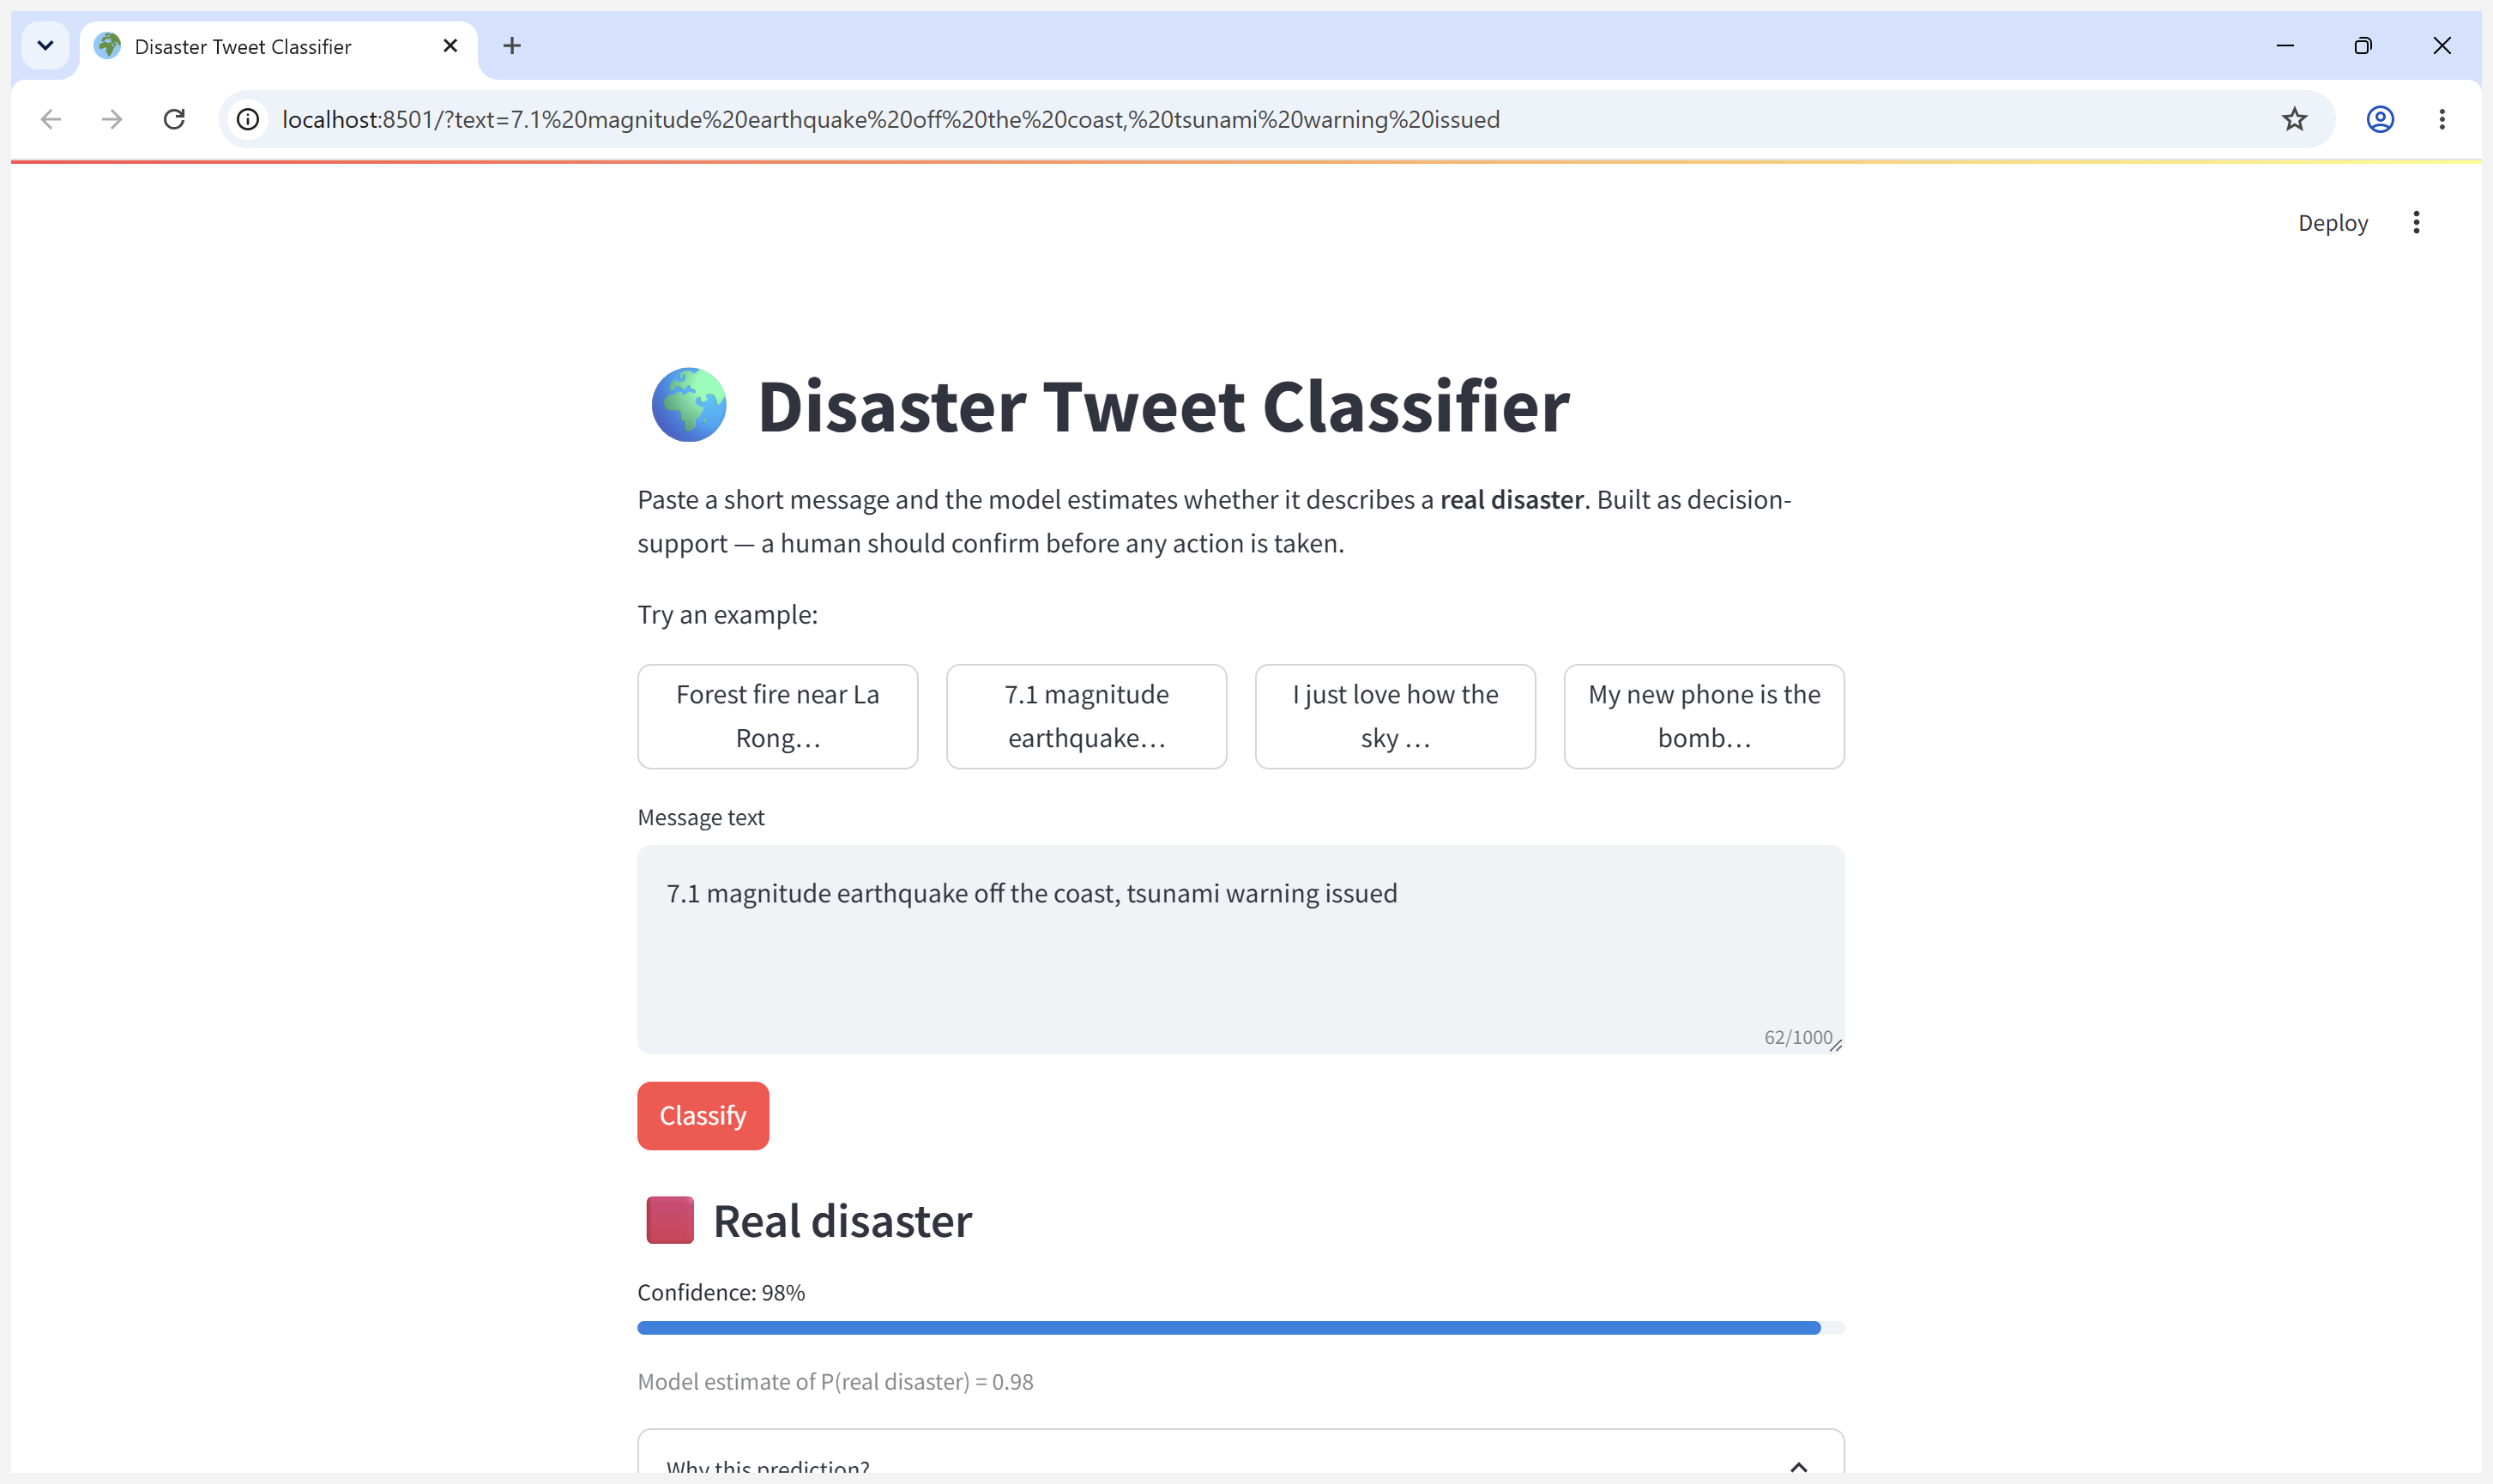
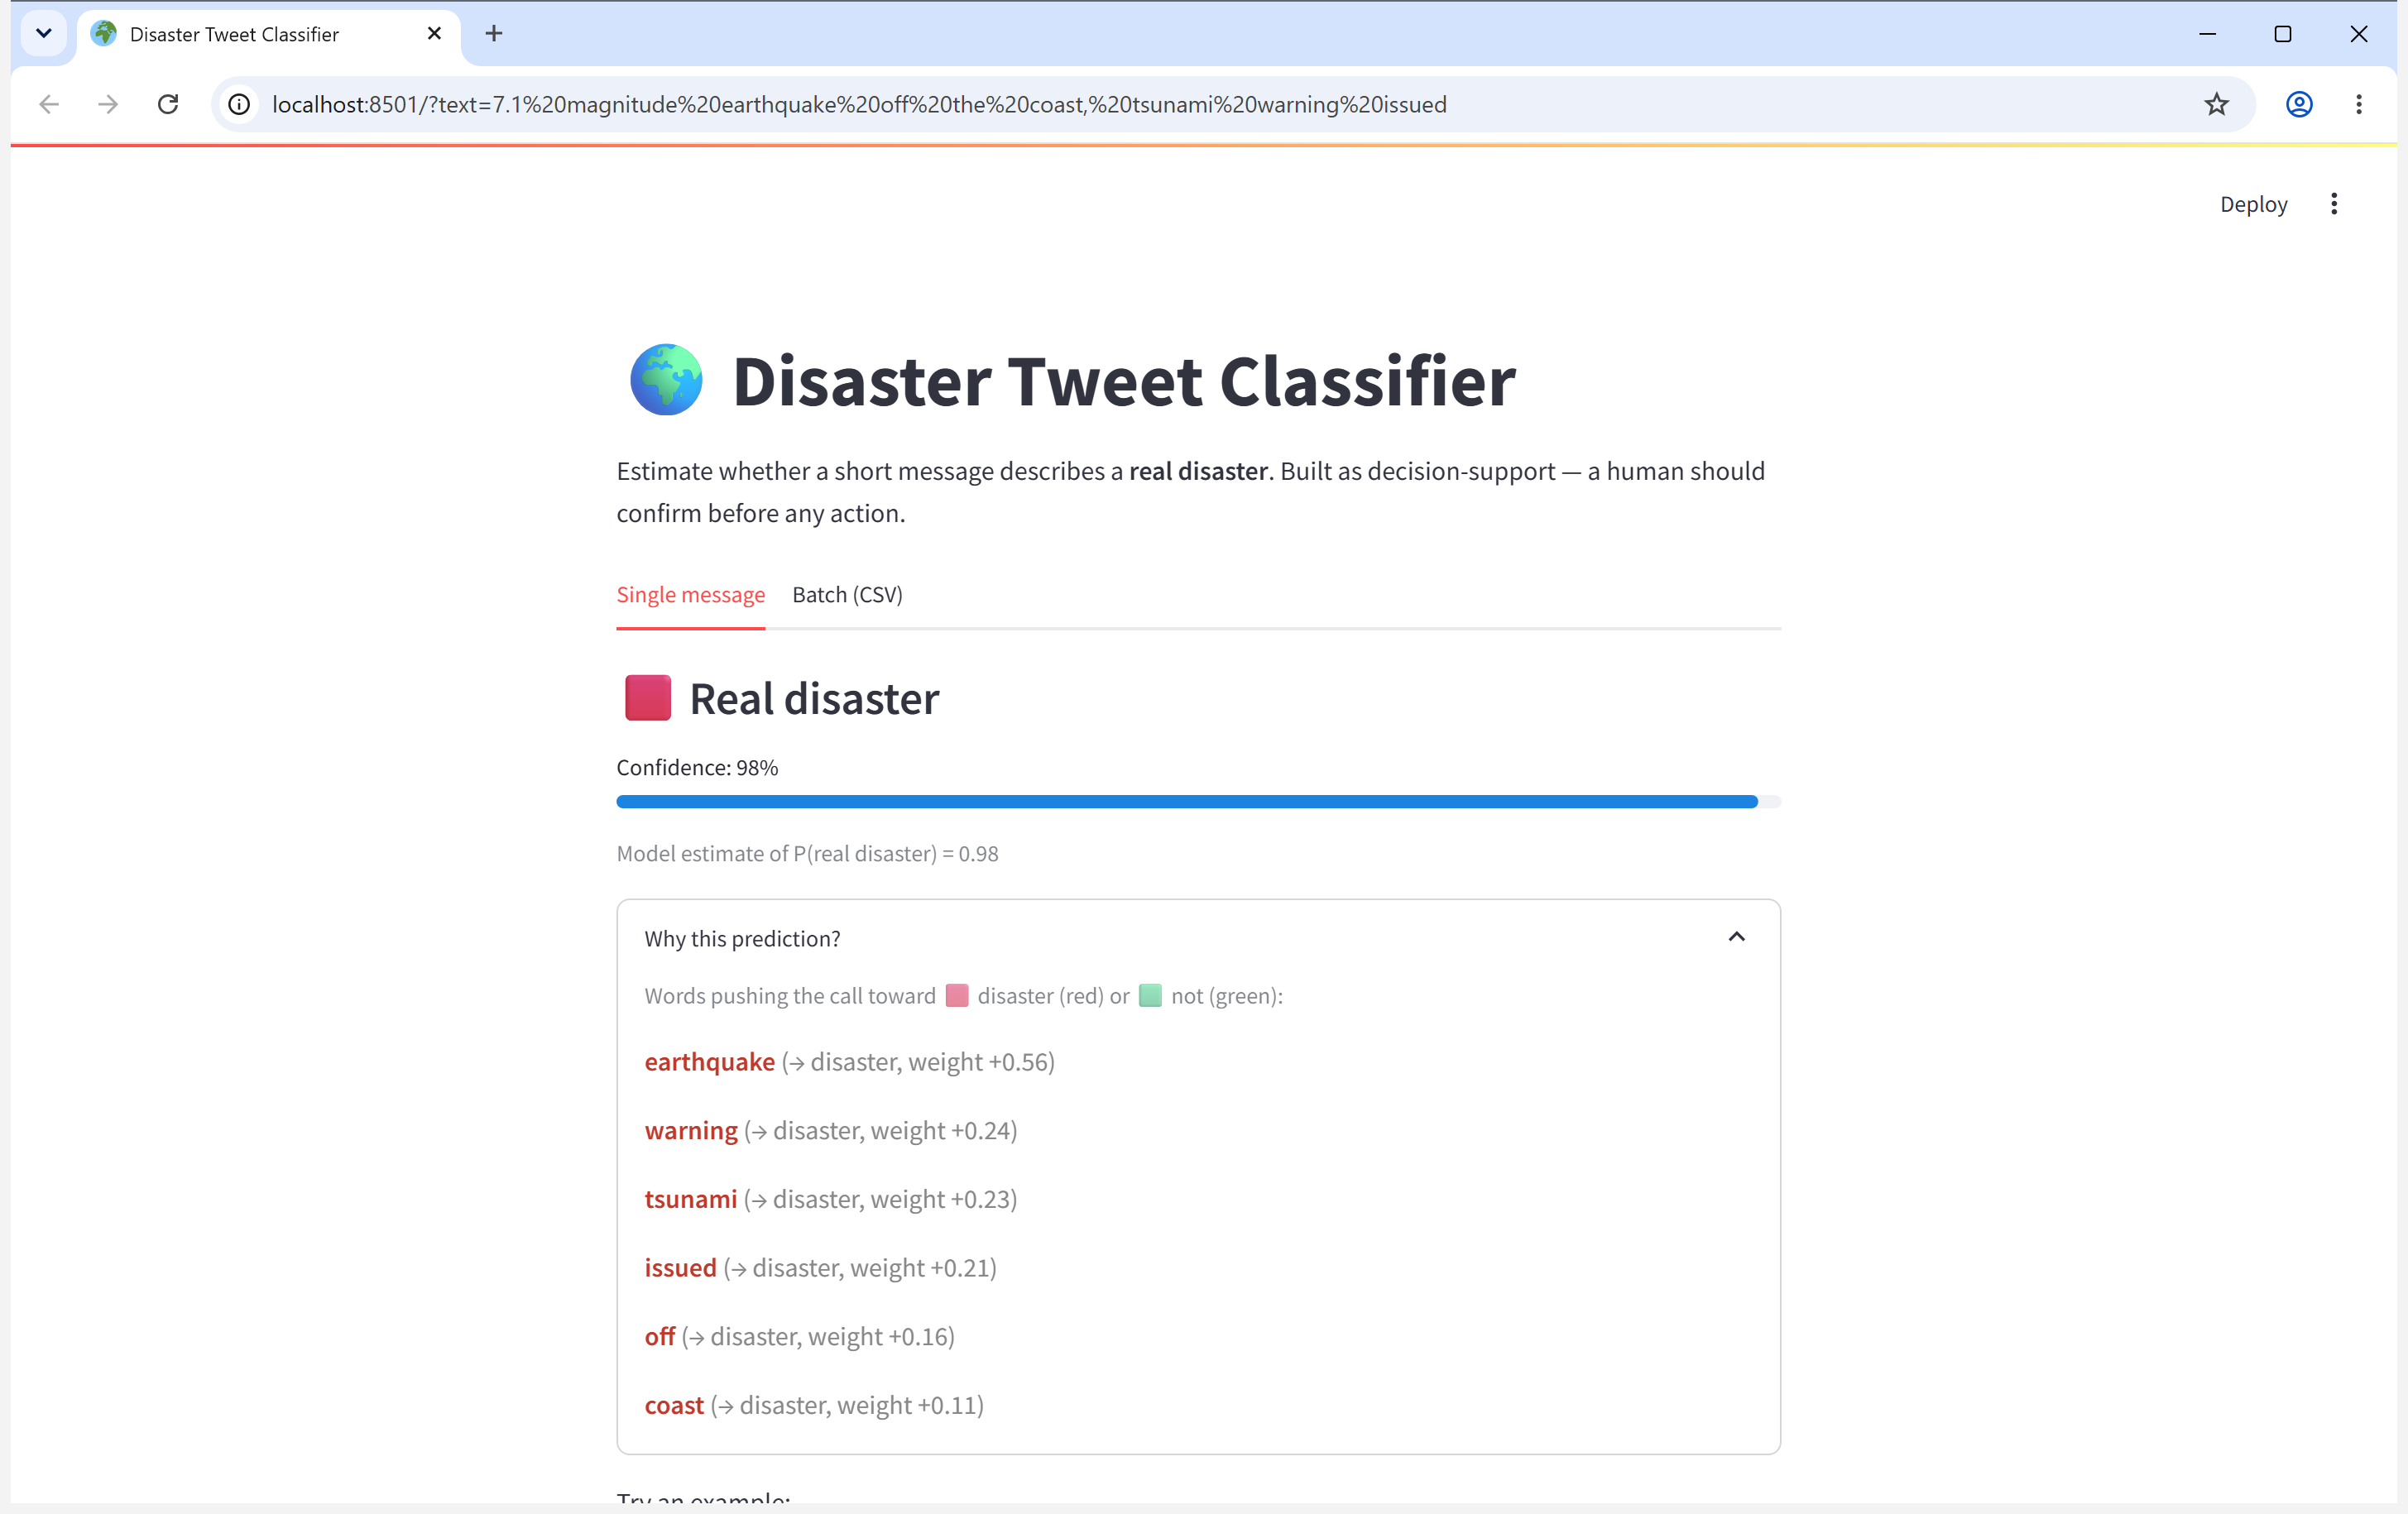
Add tests, batch CSV tab + model card, result-first UI, fix README

diff --git a/app.py b/app.py
@@ -1,17 +1,22 @@
 """Local Streamlit UI for the disaster-tweet classifier.
 
 Run with:  streamlit run app.py
-Opens on http://localhost:8501 and lets a non-technical user paste a tweet and
-get a label, a calibrated confidence, and a plain explanation of *why*.
+Opens on http://localhost:8501. A non-technical user can classify a single
+message (with an explanation of *why*) or upload a CSV for batch scoring.
 """
 
 from __future__ import annotations
 
+import json
+import os
+
+import pandas as pd
 import streamlit as st
 
 from src.model import DisasterModel, Prediction
 
 MODEL_PATH = "model.joblib"
+METRICS_PATH = "metrics.json"
 MAX_CHARS = 1000
 EXAMPLES = [
     "Forest fire near La Ronge Sask. Canada",
@@ -25,6 +30,15 @@ EXAMPLES = [
 def get_model() -> DisasterModel:
     """Load the model once per server process."""
     return DisasterModel.load(MODEL_PATH)
+
+
[email redacted]_data
+def get_metrics() -> dict:
+    """Load validation metrics for the model card, if present."""
+    if os.path.exists(METRICS_PATH):
+        with open(METRICS_PATH, encoding="utf-8") as fh:
+            return json.load(fh)
+    return {}
 
 
 def _set_example(text: str) -> None:
@@ -44,7 +58,7 @@ def render_result(pred: Prediction) -> None:
 
     with st.expander("Why this prediction?", expanded=True):
         if not pred.drivers:
-            st.write("No strong word-level signals — the model is near its decision boundary.")
+            st.write("No strong word-level signals — the model is near its boundary.")
             return
         st.caption("Words pushing the call toward 🟥 disaster (red) or 🟩 not (green):")
         for word, weight in pred.drivers:
@@ -57,14 +71,73 @@ def render_result(pred: Prediction) -> None:
             )
 
 
+def single_tab(prefill: str | None) -> None:
+    """Single-message classification with examples and explanation."""
+    result_slot = st.container()  # results render at the top, above the controls
+
+    st.write("Try an example:")
+    columns = st.columns(len(EXAMPLES))
+    for column, example in zip(columns, EXAMPLES):
+        column.button(example[:24] + "…", on_click=_set_example, args=(example,), help=example)
+
+    text = st.text_area("Message text", key="tweet", max_chars=MAX_CHARS, height=120)
+    if st.button("Classify", type="primary") or prefill:
+        with result_slot:
+            if not text or not text.strip():
+                st.warning("Please enter some text to classify.")
+            else:
+                render_result(get_model().predict_one(text.strip()))
+
+
+def batch_tab() -> None:
+    """Upload a CSV with a 'text' column and score every row."""
+    st.write("Upload a CSV with a **text** column to score many messages at once.")
+    upload = st.file_uploader("CSV file", type="csv")
+    if upload is None:
+        return
+    df = pd.read_csv(upload)
+    if "text" not in df.columns:
+        st.error(f"CSV needs a 'text' column; found {list(df.columns)}.")
+        return
+    texts = df["text"].fillna("").astype(str).tolist()
+    scores = get_model().predict_proba(texts)
+    result = pd.DataFrame(
+        {"text": texts, "label": (scores >= 0.5).astype(int), "score": scores.round(4)}
+    )
+    st.dataframe(result, use_container_width=True)
+    st.download_button(
+        "Download predictions.csv", result.to_csv(index=False), "predictions.csv", "text/csv"
+    )
+
+
+def about() -> None:
+    """A short model card: what it is, how it scored, and its limits."""
+    m = get_metrics()
+    with st.expander("About this model (model card)"):
+        if m:
+            st.write(
+                f"**Validation** (20% hold-out, n={m.get('n_val', '—')}): "
+                f"accuracy {m.get('accuracy')}, disaster-F1 {m.get('f1')}, "
+                f"ROC-AUC {m.get('roc_auc')}, Brier {m.get('brier_score')}."
+            )
+        st.write(
+            "Word + character TF-IDF features into a logistic-regression classifier, "
+            "trained on ~7,600 labelled tweets. Linear by design so each prediction "
+            "is explainable.\n\n"
+            "**Use as decision-support, not an authority.** A human should confirm "
+            "before any action. Weaker on sarcasm, metaphor, non-English text, and "
+            "events newer than the training data; false negatives (missing a real "
+            "disaster) are the costliest error and the reason confidence is always shown."
+        )
+
+
 def main() -> None:
     """Compose the page."""
     st.set_page_config(page_title="Disaster Tweet Classifier", page_icon="🌍")
     st.title("🌍 Disaster Tweet Classifier")
     st.write(
-        "Paste a short message and the model estimates whether it describes a "
-        "**real disaster**. Built as decision-support — a human should confirm "
-        "before any action is taken."
+        "Estimate whether a short message describes a **real disaster**. "
+        "Built as decision-support — a human should confirm before any action."
     )
 
     st.session_state.setdefault("tweet", "")
@@ -72,26 +145,17 @@ def main() -> None:
     if prefill and not st.session_state.tweet:
         st.session_state.tweet = prefill
 
-    st.write("Try an example:")
-    columns = st.columns(len(EXAMPLES))
-    for column, example in zip(columns, EXAMPLES):
-        column.button(
-            example[:24] + "…", on_click=_set_example, args=(example,), help=example
-        )
+    single, batch = st.tabs(["Single message", "Batch (CSV)"])
+    with single:
+        single_tab(prefill)
+    with batch:
+        batch_tab()
 
-    text = st.text_area("Message text", key="tweet", max_chars=MAX_CHARS, height=120)
-
-    if st.button("Classify", type="primary") or prefill:
-        if not text or not text.strip():
-            st.warning("Please enter some text to classify.")
-        else:
-            render_result(get_model().predict_one(text.strip()))
-
+    about()
     st.divider()
     st.caption(
-        "Linear TF-IDF + logistic-regression model trained on ~7,600 labelled "
-        "tweets. Predictions are probabilistic and can be wrong, especially on "
-        "sarcasm, metaphor, and events newer than the training data."
+        "Linear TF-IDF + logistic-regression model. Predictions are probabilistic "
+        "and can be wrong — always review confidence and rationale."
     )
 
 

diff --git a/tests/test_pipeline.py b/tests/test_pipeline.py
@@ -1,0 +1,82 @@
+"""Tests for the cleaning, model, and CLI contracts.
+
+Run with:  pytest
+The model fixture trains a small in-memory model so the suite needs no artifact.
+"""
+
+from __future__ import annotations
+
+import pandas as pd
+import pytest
+
+from predict import run
+from src.model import DisasterModel
+from src.text_clean import clean_text
+
+
[email redacted](scope="module")
+def model() -> DisasterModel:
+    """A tiny model trained on a handful of clear-cut examples."""
+    texts = [
+        "huge earthquake destroys city, hundreds feared dead",
+        "wildfire forces mass evacuation near the coast",
+        "flood emergency declared, rescue teams deployed",
+        "i love this sunny weather today",
+        "my new phone is the bomb, killing it",
+        "great party last night with friends",
+    ]
+    labels = [1, 1, 1, 0, 0, 0]
+    return DisasterModel().fit(texts, labels)
+
+
+def test_clean_text_replaces_urls_and_mentions() -> None:
+    out = clean_text("Flood @gov check http://t.co/x #emergency")
+    assert "httpurl" in out and "usermention" in out
+    assert "http://t.co/x" not in out
+
+
+def test_clean_text_handles_non_string() -> None:
+    assert clean_text(None) == ""  # type: ignore[arg-type]
+
+
+def test_prediction_shape_and_range(model: DisasterModel) -> None:
+    pred = model.predict_one("massive earthquake hits the region")
+    assert pred.label in (0, 1)
+    assert 0.0 <= pred.score <= 1.0
+    assert pred.label_text
+
+
+def test_disaster_scores_higher_than_chitchat(model: DisasterModel) -> None:
+    hot = model.predict_proba(["wildfire emergency evacuation deaths reported"])[0]
+    cold = model.predict_proba(["having a lovely coffee this morning"])[0]
+    assert hot > cold
+
+
+def test_explanation_returns_signed_drivers(model: DisasterModel) -> None:
+    drivers = model.explain("earthquake destroys city")
+    assert isinstance(drivers, list)
+    assert all(isinstance(w, str) and isinstance(s, float) for w, s in drivers)
+
+
+def test_predict_cli_writes_expected_columns(tmp_path, model: DisasterModel) -> None:
+    model_path = tmp_path / "m.joblib"
+    model.save(str(model_path))
+    src = tmp_path / "in.csv"
+    pd.DataFrame({"text": ["earthquake kills many", "nice weather"]}).to_csv(src, index=False)
+    dst = tmp_path / "out.csv"
+
+    n = run(str(src), str(dst), str(model_path))
+
+    out = pd.read_csv(dst)
+    assert n == 2
+    assert list(out.columns) == ["text", "label", "score"]
+    assert set(out["label"]).issubset({0, 1})
+
+
+def test_predict_cli_rejects_missing_text_column(tmp_path, model: DisasterModel) -> None:
+    model_path = tmp_path / "m.joblib"
+    model.save(str(model_path))
+    bad = tmp_path / "bad.csv"
+    pd.DataFrame({"wrong": ["a"]}).to_csv(bad, index=False)
+    with pytest.raises(ValueError):
+        run(str(bad), str(tmp_path / "o.csv"), str(model_path))

diff --git a/README.md b/README.md
@@ -1,0 +1,116 @@
+# Disaster Tweet Classifier
+
+A small, fully local tool that predicts whether a short message describes a
+**real disaster**. It ships as a one-command web app plus a batch CLI, and is
+deliberately built on an **explainable linear model** so every prediction can
+show _why_ it was made — which matters more for a humanitarian triage aid than
+chasing a fractional F1 gain from a black box.
+
+Trained on the public _Natural Language Processing with Disaster Tweets_
+dataset (~7,600 hand-labelled tweets).
+
+## Quickstart (one command to run)
+
+Requires **Python 3.10** (see `.python-version`).
+
+```bash
+# 1. clone
+git clone <your-repo-url>
+cd disaster-tweet-classifier
+
+# 2. set up an isolated environment + install pinned deps
+python -m venv .venv
+source .venv/bin/activate
+pip install -r requirements.txt
+
+# 3. launch the UI (opens http://localhost:8501 in your browser)
+streamlit run app.py
+```
+
+On Windows, activate with `.venv\Scripts\activate` instead.
+
+A trained model artifact (`model.joblib`) is committed, so the app works
+immediately — no training step needed at launch.
+
+### Retrain (optional, ~7 seconds on CPU)
+
+```bash
+python train.py
+```
+
+Writes `model.joblib` and `metrics.json`.
+
+### Batch predictions (CLI)
+
+```bash
+python predict.py --input data/sample_tweets.csv --output predictions.csv
+```
+
+Reads any CSV with a `text` column and writes `text,label,score`
+(`label` = 1 for real disaster, `score` = P(real disaster)). This lets a
+reviewer score a held-out test set without clicking through the UI. The same
+batch scoring is also available in the app's **Batch (CSV)** tab with a
+download button.
+
+### Tests
+
+```bash
+pytest
+```
+
+Covers the text cleaning, the model, and the CLI contract.
+
+## What's in the box
+
+| Path                | Purpose                                                         |
+| ------------------- | --------------------------------------------------------------- |
+| `app.py`            | Streamlit UI: single message (with explanation) + batch CSV tab |
+| `predict.py`        | Batch CLI for scoring a CSV                                     |
+| `train.py`          | Trains the model, writes `model.joblib` + `metrics.json`        |
+| `src/model.py`      | Word+char TF-IDF -> logistic-regression model                   |
+| `src/text_clean.py` | Conservative tweet normalisation                                |
+| `tests/`            | pytest suite for cleaning, model, and CLI                       |
+| `model.joblib`      | Committed trained artifact (the app runs with zero setup)       |
+| `metrics.json`      | Hold-out validation metrics from the last training run          |
+| `data/`             | Training data + a small sample CSV for the CLI                  |
+
+## How it works
+
+1. **Normalise** the text (URLs and @mentions -> placeholder tokens, HTML
+   entities decoded, hashtags split). Casing and hashtag words are kept because
+   they carry signal.
+2. **Vectorise** with two TF-IDF representations: word 1-2 grams (topical
+   signal) and character 3-5 grams (robust to the typos, hashtags, and spelling
+   variants typical of tweets).
+3. **Classify** with logistic regression (`class_weight="balanced"`). Because
+   the model is linear, each word's contribution to a prediction is just its
+   TF-IDF weight times its learned coefficient — that's exactly what the UI's
+   _"Why this prediction?"_ panel shows.
+
+## Performance (20% stratified hold-out)
+
+| Metric                    | Value |
+| ------------------------- | ----- |
+| Accuracy                  | 0.813 |
+| F1 (disaster class)       | 0.779 |
+| ROC-AUC                   | 0.870 |
+| Brier score (calibration) | 0.138 |
+
+Confusion matrix `[[TN 737, FP 132], [FN 153, TP 501]]`. Per the brief, the goal
+is working code and sensible choices, not state-of-the-art F1 — this baseline is
+competitive while staying instant to train and fully interpretable.
+
+## Limitations & responsible use
+
+- It is a **decision-support tool, not an authority** — a human should confirm
+  before any operational action. False negatives (missing a real disaster) are
+  the costliest error in this domain, so the UI always exposes confidence and
+  rationale rather than a bare yes/no.
+- Trained on 2015-era English tweets; it will be weaker on sarcasm, metaphor,
+  non-English text, and event types unseen in training.
+- No personal data is used at train time beyond the public tweet text.
+
+## Data attribution
+
+Dataset: _Natural Language Processing with Disaster Tweets_
+(Kaggle `nlp-getting-started`), used for non-commercial evaluation.